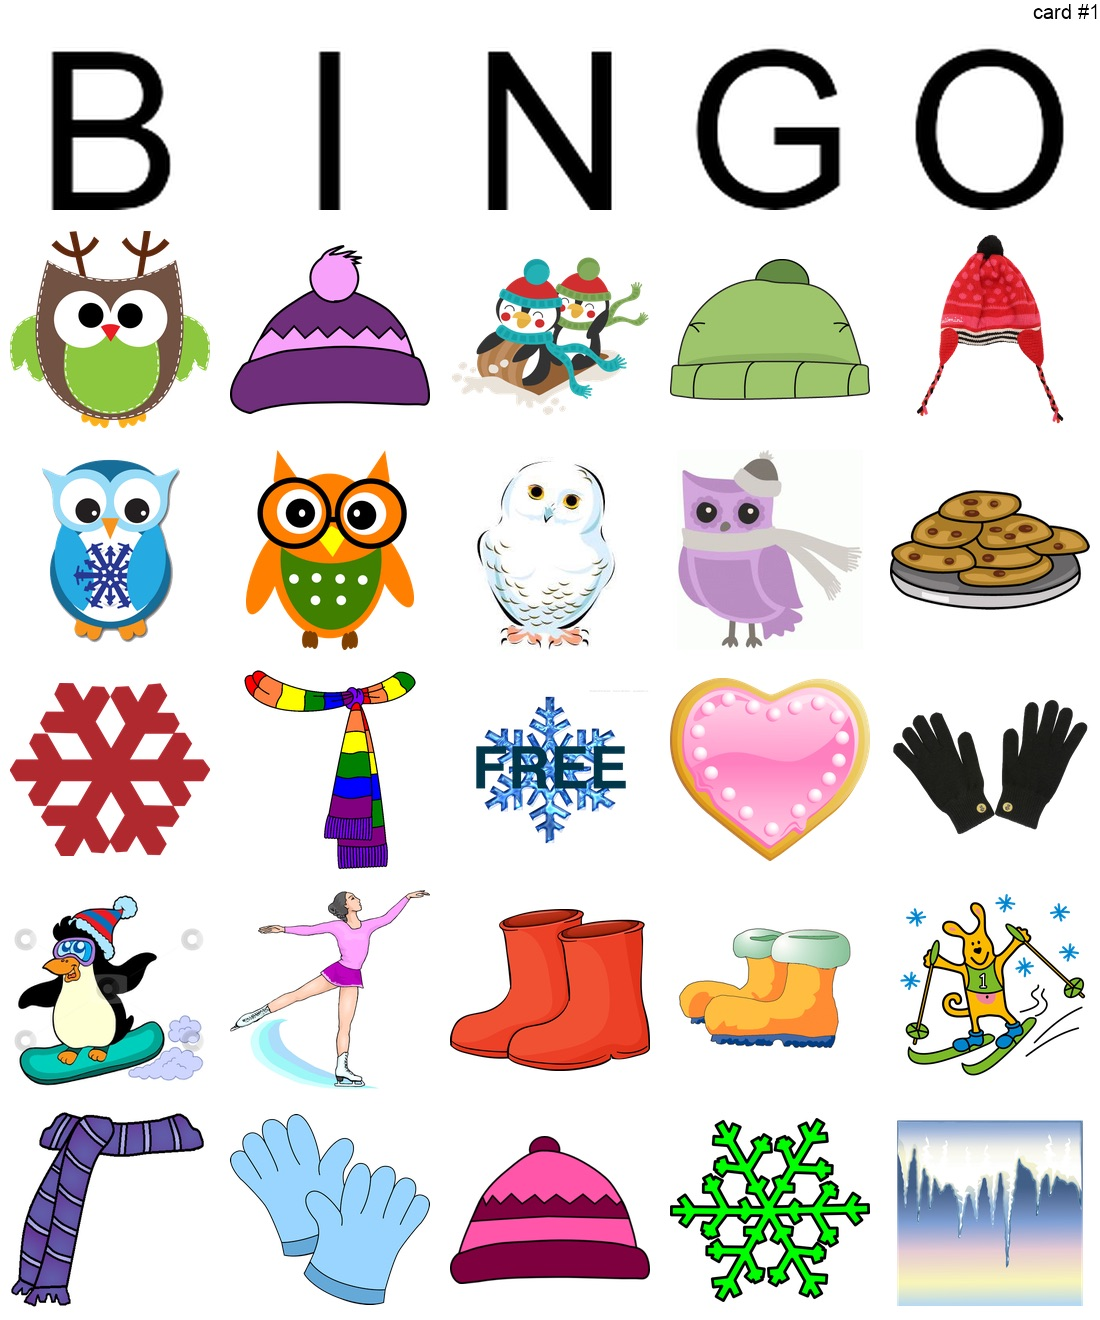
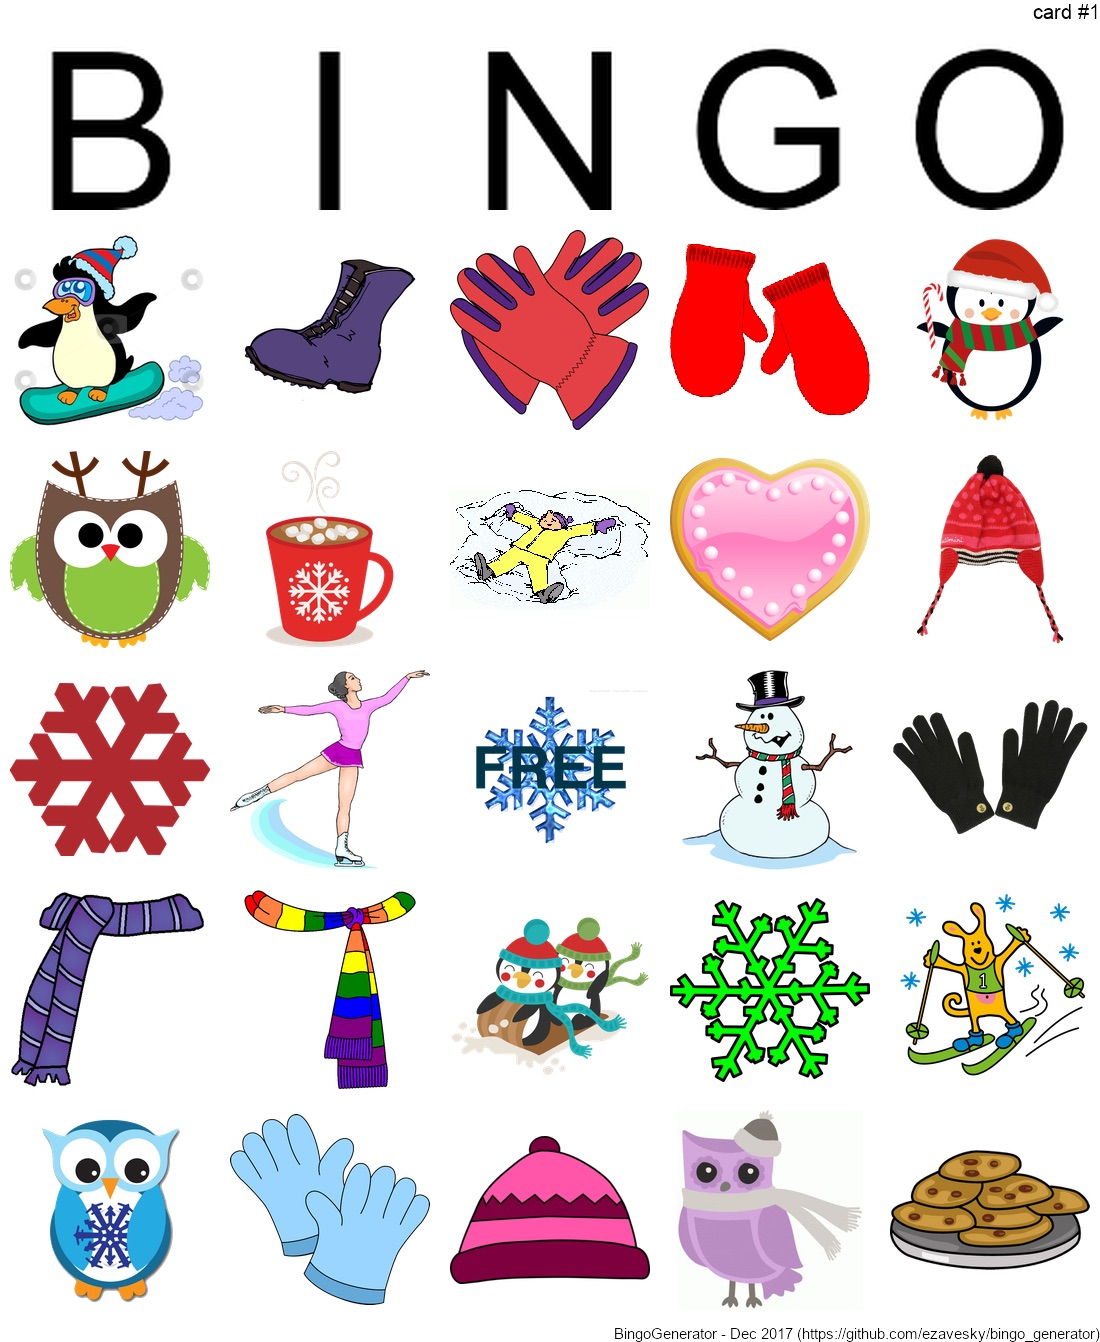
reference tagging to find hopefully helpful tool

diff --git a/composite.py b/composite.py
@@ -11,6 +11,7 @@
 import os.path
 from PIL import Image, ImageFont, ImageDraw
 import random
+import datetime
 
 
 def file_fetch(dirRoot, gameName):
@@ -46,8 +47,8 @@ def generate_montage(fileSet, fileFree, nameFile, colKeys=None,
     # height = sum(image.size[1] + margin for image in images)
     colorBack = (255, 255, 255, 0)
     colorText = (0, 0, 0, 255)
-    montage = Image.new(mode='RGBA', size=((cellSize + marginSize) * (cellCount),
-                                           (cellSize + marginSize) * (cellCount + 1)), color=colorBack)
+    montage = Image.new(mode='RGBA', size=((int)((cellSize + marginSize) * cellCount),
+                                           (int)((cellSize + marginSize) * (cellCount + 1.1))), color=colorBack)
 
     # font = ImageFont.truetype("resources/HelveticaNeueLight.ttf", 16)
     # font = ImageFont.load_default()
@@ -101,6 +102,13 @@ def generate_montage(fileSet, fileFree, nameFile, colKeys=None,
         text_x, text_y = font.getsize(textCard)
         draw = ImageDraw.Draw(montage)
         draw.text((montage.width - text_x, 0), textCard, font=font, fill=colorText)
+    # vanity tag for others to use!
+    textCard = "BingoGenerator - {:} (https://github.com/ezavesky/bingo_generator)".format(
+               datetime.date.today().strftime('%b %Y'))
+    font = ImageFont.truetype("arial.ttf", 15)
+    text_x, text_y = font.getsize(textCard)
+    draw = ImageDraw.Draw(montage)
+    draw.text((montage.width - text_x, montage.height - text_y), textCard, font=font, fill=colorText)
 
     # montage = montage.crop((0, 0, max_x, max_y))
     montage.save(nameFile)
